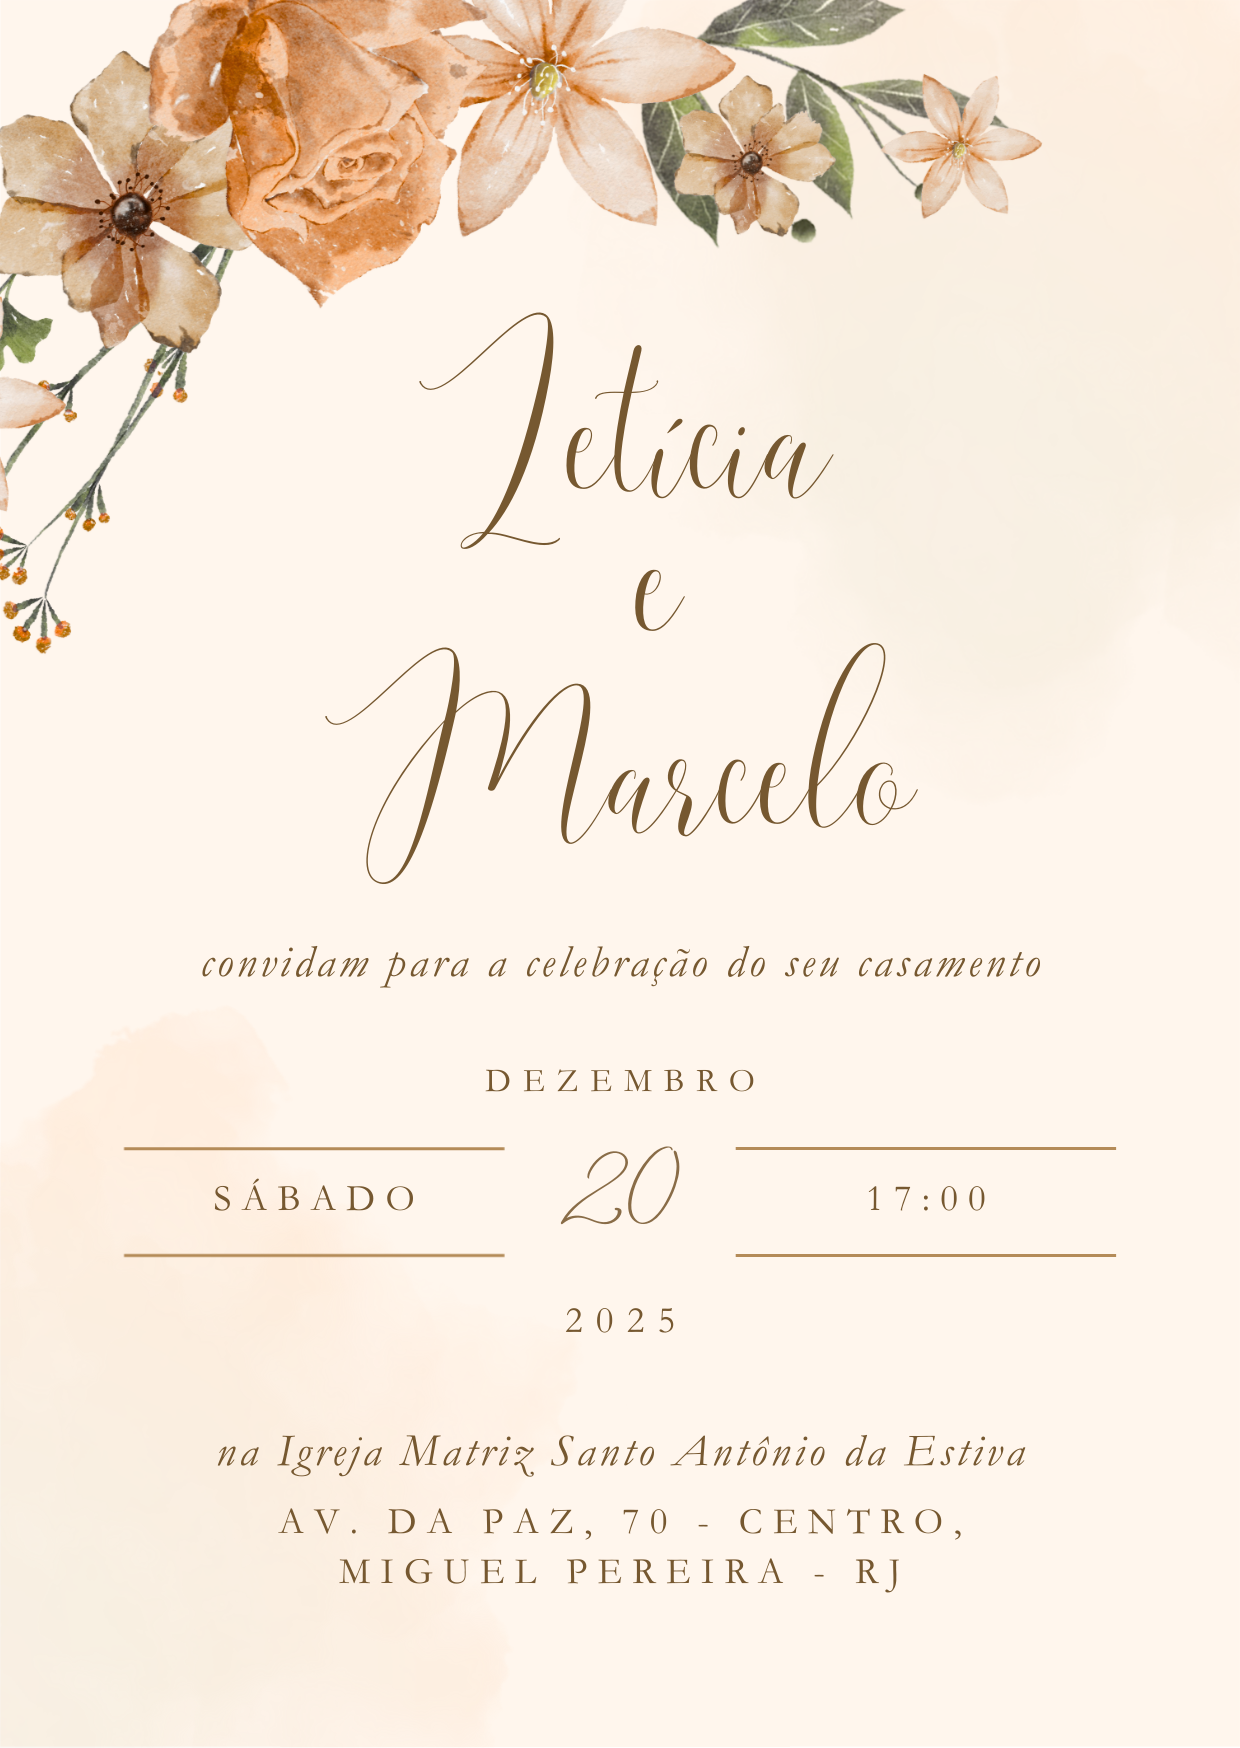
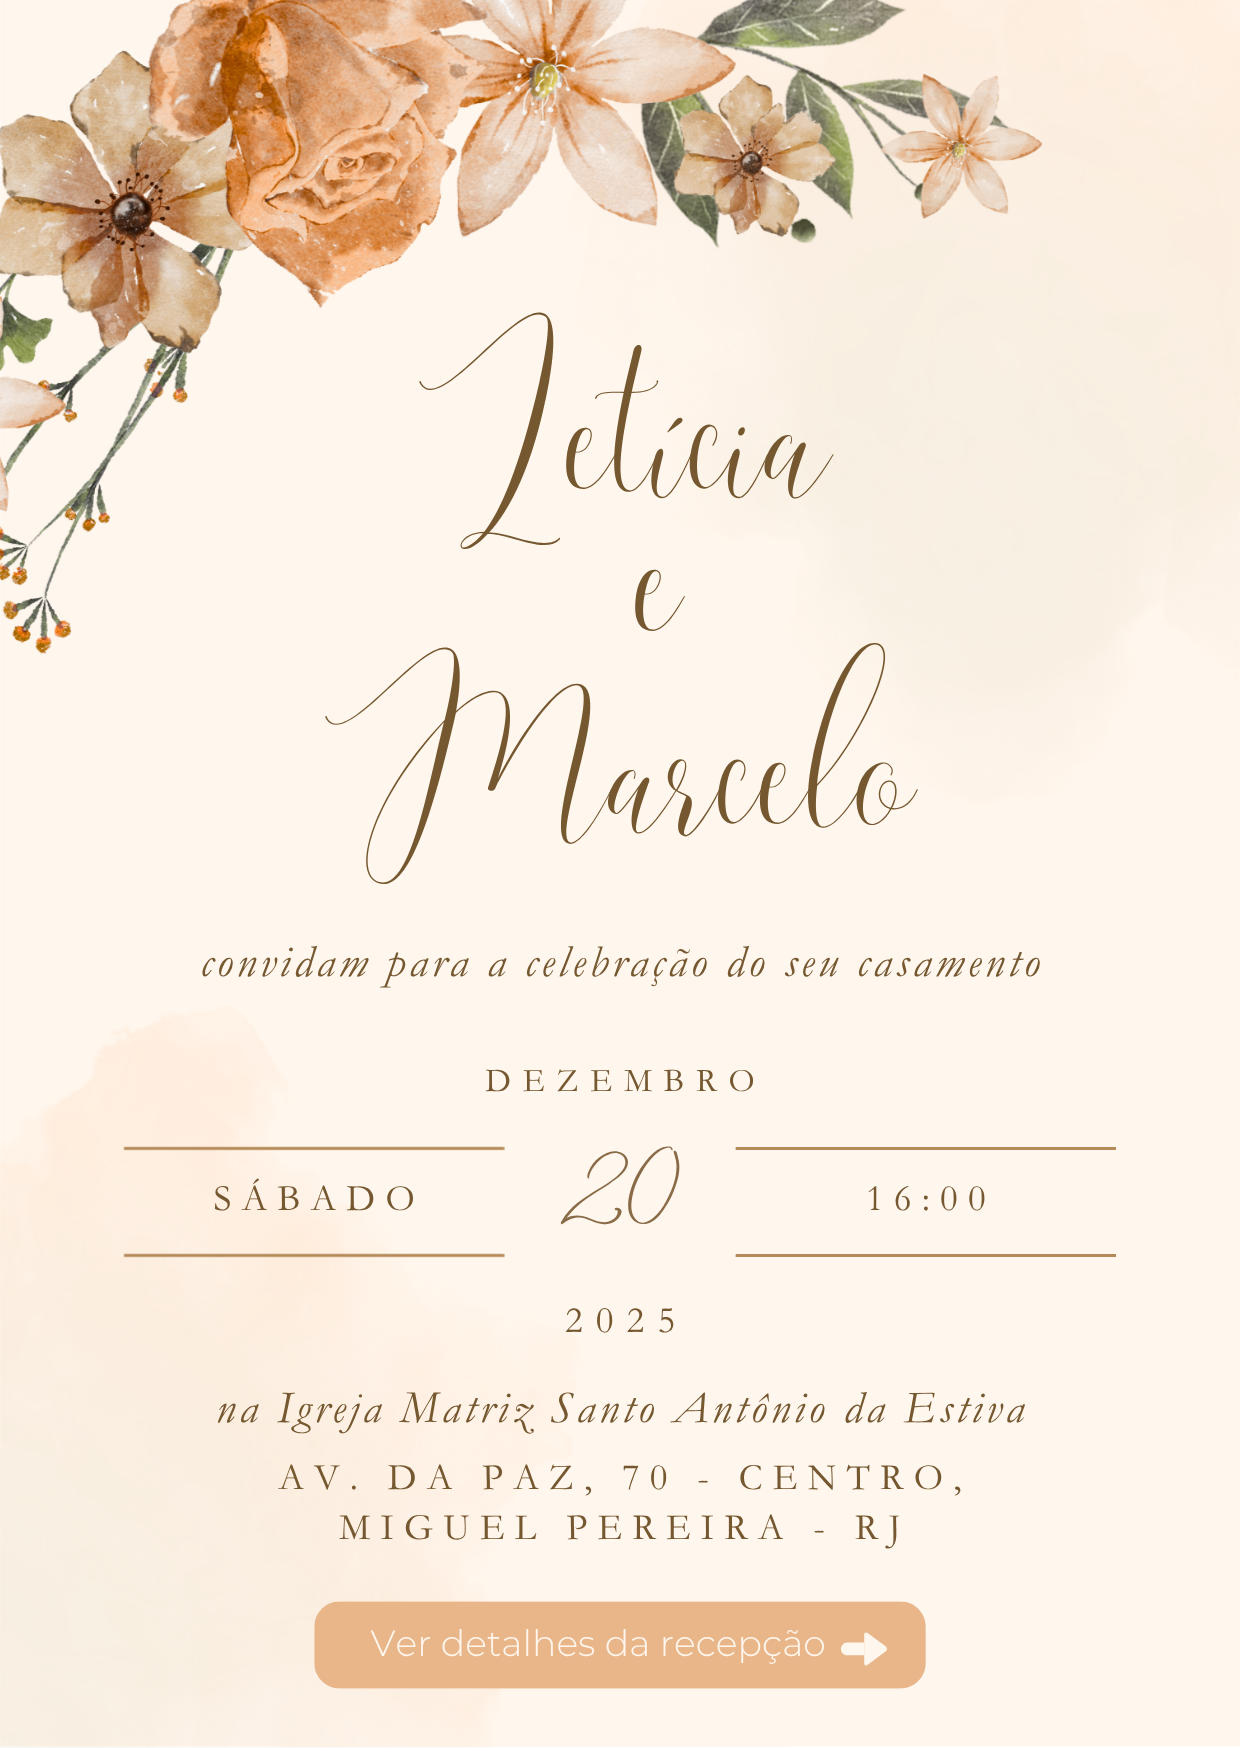
Ajustes nas telas

Changed region(s): [[0.1839, 0.8032, 0.8274, 0.9886]]

diff --git a/index.css b/index.css
@@ -86,7 +86,7 @@ body {
     top: 48%;
     left: 50%;
     transform: translate(-50%, -50%);
-    width: 100px;
+    width: 200px;
     cursor: pointer;
     z-index: 11;
     transition: opacity 0.5s;
@@ -98,24 +98,68 @@ body {
 
 .botao-proxima-pagina {
     position: absolute;
-    bottom: 2%;
+    bottom: 3.5%;
     left: 50%;
     transform: translateX(-50%);
-    background-color: transparent;
-    border: 1px solid #8B4513;
-    color: #8B4513;
-    padding: 10px 20px;
-    border-radius: 20px;
-    font-size: 16px;
+    background-color: #000000;
     cursor: pointer;
     opacity: 0;
+    /* opacity: 0.5; */
     visibility: hidden;
-    transition: opacity 1s ease-in, visibility 1s ease-in;
     z-index: 5;
+    width: 49%;
+    height: 47px;
 }
 
-.botao-proxima-pagina.visivel {
-    opacity: 1;
+.botao-confirmar-presenca {
+    position: absolute;
+    bottom: 38.5%;
+    left: 45%;
+    transform: translateX(-50%);
+    background-color: #000000;
+    cursor: pointer;
+    opacity: 0;
+    /* opacity: 0.5; */
+    visibility: hidden;
+    z-index: 5;
+    width: 5%;
+    height: 93px;
+    border-radius: 50px;
+}
+
+.botao-lista-presenca {
+    position: absolute;
+    bottom: 38.5%;
+    left: 55%;
+    transform: translateX(-50%);
+    background-color: #000000;
+    cursor: pointer;
+    opacity: 0;
+    /* opacity: 0.5; */
+    visibility: hidden;
+    z-index: 5;
+    width: 5%;
+    height: 93px;
+    border-radius: 50px;
+}
+
+.botao-voltar-pagina {
+    position: absolute;
+    bottom: 3%;
+    left: 34.5%;
+    transform: translateX(-50%);
+    background-color: #000000;
+    cursor: pointer;
+    opacity: 0;
+    /* opacity: 0.5; */
+    visibility: hidden;
+    z-index: 5;
+    width: 2.5%;
+    height: 47px;
+    border-radius: 50px;
+}
+
+.visivel {
     visibility: visible;
 }
 
@@ -133,6 +177,205 @@ body {
     object-fit: contain;
 }
 
+
+
+
+
+/* responsivo */
+@media (max-width: 1750px) {
+    .botao-voltar-pagina {
+        left: 35%;
+    }
+}
+
+@media (max-width: 1700px) {
+    .botao-voltar-pagina {
+        left: 34%;
+        height: 42px;
+    }
+}
+
+@media (max-width: 1600px) {
+    .botao-voltar-pagina {
+        left: 33.5%;
+    }
+}
+
+@media (max-width: 1550px) {
+    .botao-voltar-pagina {
+        left: 33%;
+    }
+}
+
+@media (max-width: 1500px) {
+    .botao-voltar-pagina {
+        left: 32%;
+    }
+
+    .botao-confirmar-presenca {
+        left: 44%;
+        width: 6%;
+        height: 85px;
+    }
+
+    .botao-lista-presenca {
+        left: 56%;
+        width: 6%;
+        height: 85px;
+    }
+}
+
+@media (max-width: 1400px) {
+    .botao-voltar-pagina {
+        left: 31%;
+        width: 3.5%;
+    }
+}
+
+@media (max-width: 1320px) {
+    .botao-voltar-pagina {
+        left: 30%;
+    }
+}
+
+@media (max-width: 1300px) {
+    .botao-voltar-pagina {
+        left: 29.5%;
+        height: 40px;
+    }
+
+    .botao-confirmar-presenca {
+        left: 44%;
+    }
+
+    .botao-lista-presenca {
+        left: 56%;
+    }
+}
+
+@media (max-width: 1250px) {
+    .botao-voltar-pagina {
+        left: 29%;
+    }
+
+    .botao-confirmar-presenca {
+        left: 43%;
+        width: 7%;
+    }
+
+    .botao-lista-presenca {
+        left: 57%;
+        width: 7%;
+    }
+}
+
+@media (max-width: 1200px) {
+    .botao-voltar-pagina {
+        left: 28%;
+    }
+}
+
+@media (max-width: 1150px) {
+    .botao-voltar-pagina {
+        left: 27%;
+    }
+}
+
+@media (max-width: 1100px) {
+    .botao-voltar-pagina {
+        left: 25.5%;
+        width: 4.5%;
+    }
+
+    .botao-confirmar-presenca {
+        left: 42%;
+        width: 8%;
+    }
+
+    .botao-lista-presenca {
+        left: 58%;
+        width: 8%;
+    }
+}
+
+@media (max-width: 1030px) {
+    .botao-voltar-pagina {
+        left: 24%;
+    }
+}
+
+@media (max-width: 950px) {
+    .botao-voltar-pagina {
+        left: 22%;
+    }
+}
+
+@media (max-width: 900px) {
+    .botao-voltar-pagina {
+        left: 20.5%;
+    }
+
+    .botao-confirmar-presenca {
+        left: 40%;
+        width: 10%;
+    }
+
+    .botao-lista-presenca {
+        left: 60%;
+        width: 10%;
+    }
+}
+
+@media (max-width: 860px) {
+    .botao-voltar-pagina {
+        left: 19%;
+    }
+}
+
+@media (max-width: 820px) {
+    .botao-voltar-pagina {
+        left: 17%;
+    }
+}
+
+@media (max-width: 770px) {
+    .botao-voltar-pagina {
+        left: 15%;
+        width: 6.5%;
+    }
+}
+
+
+@media (max-width: 720px) {
+    .botao-voltar-pagina {
+        left: 12%;
+    }
+
+    .botao-confirmar-presenca {
+        left: 38%;
+        width: 12%;
+    }
+
+    .botao-lista-presenca {
+        left: 62%;
+        width: 12%;
+    }
+}
+
+
+@media (max-width: 700px) {
+    .botao-voltar-pagina {
+        left: 12.5%;
+        width: 6.5%;
+    }
+}
+
+@media (max-width: 670px) {
+    .botao-voltar-pagina {
+        left: 9.5%;
+    }
+}
+
 @media (max-width: 628px) {
     .pagina-envelope {
         width: 100%;
@@ -141,19 +384,20 @@ body {
     }
 
     #selo {
-        width: 85px;
+        width: 150px;
     }
-}
 
-@media (max-width: 530px) {
-    .botao-proxima-pagina {
-        width: 60%;
+    .botao-voltar-pagina {
+        left: 7.5%;
     }
-}
 
-@media (max-width: 451px) {
-    .botao-proxima-pagina {
-        width: 70%;
-        padding: 5px 10px;
+    .botao-confirmar-presenca {
+        left: 36%;
+        width: 13%;
+    }
+
+    .botao-lista-presenca {
+        left: 64%;
+        width: 13%;
     }
 }

diff --git a/index.html b/index.html
@@ -10,7 +10,7 @@
     <div class="container-casamento">
         <div class="pagina-envelope" id="envelope">
             <div class="convite-interno">
-                <button class="botao-proxima-pagina" id="btn-proxima">Ver detalhes da Recepção ➔</button>
+                <button class="botao-proxima-pagina" id="btn-proxima"></button>
             </div>
             
             <div class="aba-envelope-cima" id="aba-cima"></div>
@@ -19,8 +19,12 @@
             <img src="selo.png" id="selo" alt="Clique para abrir">
         </div>
 
-        <div class="pagina-detalhes" id="detalhes">
+        <div class="pagina-detalhes" id="detalhes" style="display:none; opacity:0;">
             <img src="detalhes.png" alt="Detalhes da Recepção">
+
+            <button class="botao-confirmar-presenca" id="btn-confirmar"></button>
+            <button class="botao-lista-presenca" id="btn-lista"></button>
+            <button class="botao-voltar-pagina" id="btn-voltar"></button>
         </div>
     </div>
 
@@ -31,11 +35,13 @@
         const envelope = document.getElementById('envelope');
         const detalhes = document.getElementById('detalhes');
         const btnProxima = document.getElementById('btn-proxima');
+        const btnConfirmar = document.getElementById('btn-confirmar');
+        const btnLista = document.getElementById('btn-lista');
+        const btnVoltar = document.getElementById('btn-voltar');
 
         selo.addEventListener('click', () => {
             abaCima.classList.add('aberto');
             abaBaixo.classList.add('aberto');
-            
             selo.style.opacity = '0';
 
             setTimeout(() => {
@@ -54,10 +60,34 @@
                 detalhes.style.display = 'block';
                 window.requestAnimationFrame(() => {
                     detalhes.style.opacity = '1';
+                    btnConfirmar.classList.add('visivel');
+                    btnLista.classList.add('visivel');
+                    btnVoltar.classList.add('visivel');
                 });
             }, 800);
         });
 
+        btnConfirmar.addEventListener('click', () => {
+            const linkConfirmar = 'https://sites.icasei.com.br/leticiaemarcelo_/pages/36083091';
+            window.open(linkConfirmar, '_blank');
+        });
+
+        btnLista.addEventListener('click', () => {
+            const linkLista = 'https://sites.icasei.com.br/leticiaemarcelo_/pages/36083122';
+            window.open(linkLista, '_blank');
+        });
+
+        btnVoltar.addEventListener('click', () => {
+            detalhes.style.opacity = '0';
+            
+            setTimeout(() => {
+                detalhes.style.display = 'none';
+                envelope.style.display = 'block';
+                window.requestAnimationFrame(() => {
+                    envelope.style.opacity = '1';
+                });
+            }, 800);
+        });
     </script>
 
 </body>
